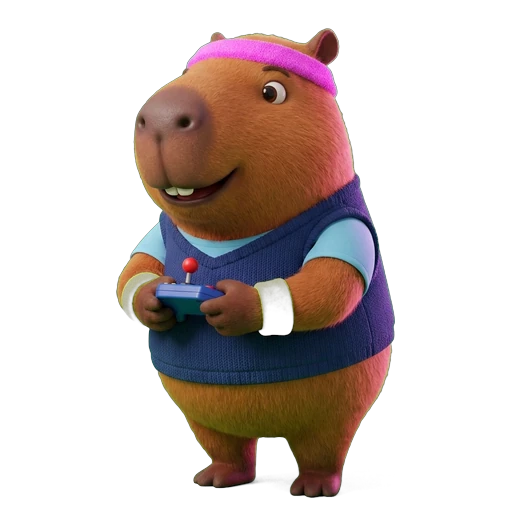
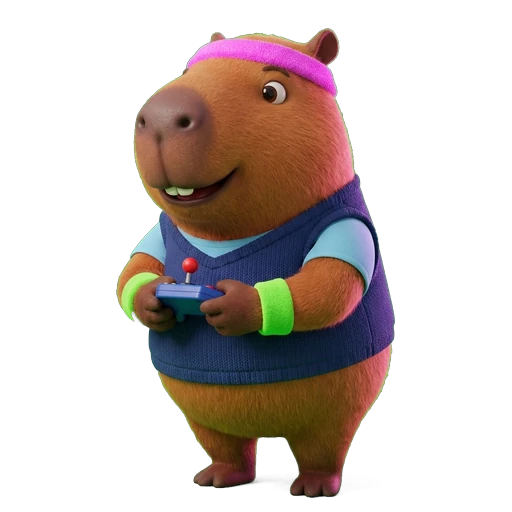
V466: 80s disco outfits for Blue and Rosie in Nuts levels
Claude-Session: https://claude.ai/code/session_019cECXFiuKrTCbozkA4coN4

Changed region(s): [[0.5, 0.5312, 0.5938, 0.6562], [0.2188, 0.5312, 0.3125, 0.625]]

diff --git a/site/index.html b/site/index.html
@@ -2785,7 +2785,7 @@ if(window.caches)p.push(caches.keys().then(function(ks){return Promise.all(ks.ma
 </div>
 
 <script>
-const GAME_VER = "V465";
+const GAME_VER = "V466";
 /* ===== V456: Sprachschicht ===== */
 const LANGS = { en: { flag: "🇬🇧🇺🇸", name: "English" }, es: { flag: "🇪🇸", name: "Español" }, pt: { flag: "🇧🇷🇵🇹", name: "Português" }, de: { flag: "🇦🇹🇩🇪🇨🇭", name: "Deutsch" }, ru: { flag: "🇷🇺", name: "Русский" } };
 const I18N = { lang: "en", dict: null, cache: new Map(), miss: new Set(), seen: new Set(), audit: false, names: [], ready: false };
@@ -3061,7 +3061,8 @@ const HERO_BASE = {"blue": "img/e8b742aa03.webp", "rosie": "img/cf7539bf2e.webp"
 const OUTFIT = [["Standard", 0], ["Shades", 30], ["Explorer", 60], ["Winter", 90], ["Champion", 120]];   /* V413: Name, Sterne */
 function outfitImg(k, n) { return `img/outfit_${k}_${n || 0}.webp`; }   /* V429: alle aus einem Ausschnitt */
 function outfitSel(k) { try { const n = +localStorage.getItem("capy-outfit-" + k) || 0; return n >= 0 && n <= 4 ? n : 0; } catch (e) { return 0; } }
-const HERO_IMG = { get blue() { return outfitImg("blue", outfitSel("blue")); }, get rosie() { return outfitImg("rosie", outfitSel("rosie")); } };
+function heroDisco() { try { const s = window.__TT && window.__TT.S; return !!(s && s.nuts); } catch (e) { return false; } }   /* V466: Nuts = 80er-Disco-Outfit */
+const HERO_IMG = { get blue() { return heroDisco() ? "img/outfit_blue_disco.webp" : outfitImg("blue", outfitSel("blue")); }, get rosie() { return heroDisco() ? "img/outfit_rosie_disco.webp" : outfitImg("rosie", outfitSel("rosie")); } }; window.__heroImg = HERO_IMG; window.__heroDisco = heroDisco;
 const CONTS = [["samerica", "SOUTH AMERICA", ["RIVER BANK", "MANGROVE", "JUNGLE", "WATERFALL", "RUINS", "JUNGLE TEMPLE"]],
   ["africa", "AFRICA", ["OASIS CAMP", "SAVANNA", "BAOBAB GROVE", "DUNE SEA", "ROCK CANYON", "THE PYRAMID"]],
   ["asia", "ASIA", ["TAIGA", "FROZEN LAKE", "STEPPE", "TUNDRA", "ICE PORT", "ICE PALACE"]],

diff --git a/tools/cut_hero.py b/tools/cut_hero.py
@@ -1,12 +1,20 @@
 """Stellt einen Helden auf Grün frei → 512x512 WebP wie outfit_*.webp.
-Aufruf: cut_hero.py quelle.png ziel.webp"""
+Nur Grün, das mit dem Rand verbunden ist und kaum Rot hat, wird entfernt (neongrüne Kleidung bleibt).
+Aufruf: cut_hero.py quelle.png ziel.webp  (braucht numpy, scipy, Pillow)"""
 import sys, numpy as np
 from PIL import Image
+from scipy import ndimage
 src, dst = sys.argv[1:3]
 im = np.asarray(Image.open(src).convert("RGB")).astype(np.float32)
 R, G, B = im[..., 0], im[..., 1], im[..., 2]
-g = G - np.maximum(R, B); a = np.clip(1 - (g - 40) / 80, 0, 1)
-sp = np.minimum(G, np.maximum(R, B)); im = im.copy(); im[..., 1] = np.where(g > 0, sp, G)
+g = G - np.maximum(R, B)
+cand = (g > 25) & (R < 95)
+lab, n = ndimage.label(cand)
+border = set(np.unique(np.concatenate([lab[0], lab[-1], lab[:, 0], lab[:, -1]]))) - {0}
+bg = np.isin(lab, list(border)); edge = ndimage.binary_dilation(bg, iterations=2) & ~bg & (g > 0) & (R < 110)
+a = np.ones_like(G); a[bg] = np.clip(1 - (g[bg] - 40) / 80, 0, 1); a[edge] = np.minimum(a[edge], np.clip(1 - (g[edge] - 10) / 90, 0.35, 1))
+near = ndimage.binary_dilation(bg, iterations=3) & (R < 110)
+sp = np.minimum(G, np.maximum(R, B)); im = im.copy(); im[..., 1] = np.where(near & (g > 0), sp, G)
 rgba = np.dstack([im, a * 255]).astype(np.uint8); yy, xx = np.where(a > 0.5)
 crop = Image.fromarray(rgba[yy.min():yy.max() + 1, xx.min():xx.max() + 1]); w, h = crop.size
 k = min(470 / h, 480 / w); crop = crop.resize((int(w * k), int(h * k)), Image.LANCZOS)

diff --git a/tools/patch466.py b/tools/patch466.py
@@ -1,0 +1,19 @@
+#!/usr/bin/env python3
+"""V466 – 80er-Disco-Outfits für Blue und Rosie in den Nuts-Levels (Neon-Stirnband, Schweißbänder; Nano Banana Pro).
+Nutzung: python3 tools/patch466.py src dst"""
+import sys
+src, dst = sys.argv[1], sys.argv[2]
+s = open(src, encoding="utf-8").read()
+
+def rep(a, b, n=1):
+    global s
+    c = s.count(a)
+    assert c == n, (c, a[:80])
+    s = s.replace(a, b)
+
+rep('const GAME_VER = "V465";', 'const GAME_VER = "V466";')
+rep('const HERO_IMG = { get blue() { return outfitImg("blue", outfitSel("blue")); }, get rosie() { return outfitImg("rosie", outfitSel("rosie")); } };',
+    'function heroDisco() { try { const s = window.__TT && window.__TT.S; return !!(s && s.nuts); } catch (e) { return false; } }   /* V466: Nuts = 80er-Disco-Outfit */\n'
+    'const HERO_IMG = { get blue() { return heroDisco() ? "img/outfit_blue_disco.webp" : outfitImg("blue", outfitSel("blue")); }, get rosie() { return heroDisco() ? "img/outfit_rosie_disco.webp" : outfitImg("rosie", outfitSel("rosie")); } }; window.__heroImg = HERO_IMG; window.__heroDisco = heroDisco;')
+open(dst, "w", encoding="utf-8").write(s)
+print("ok V466")
